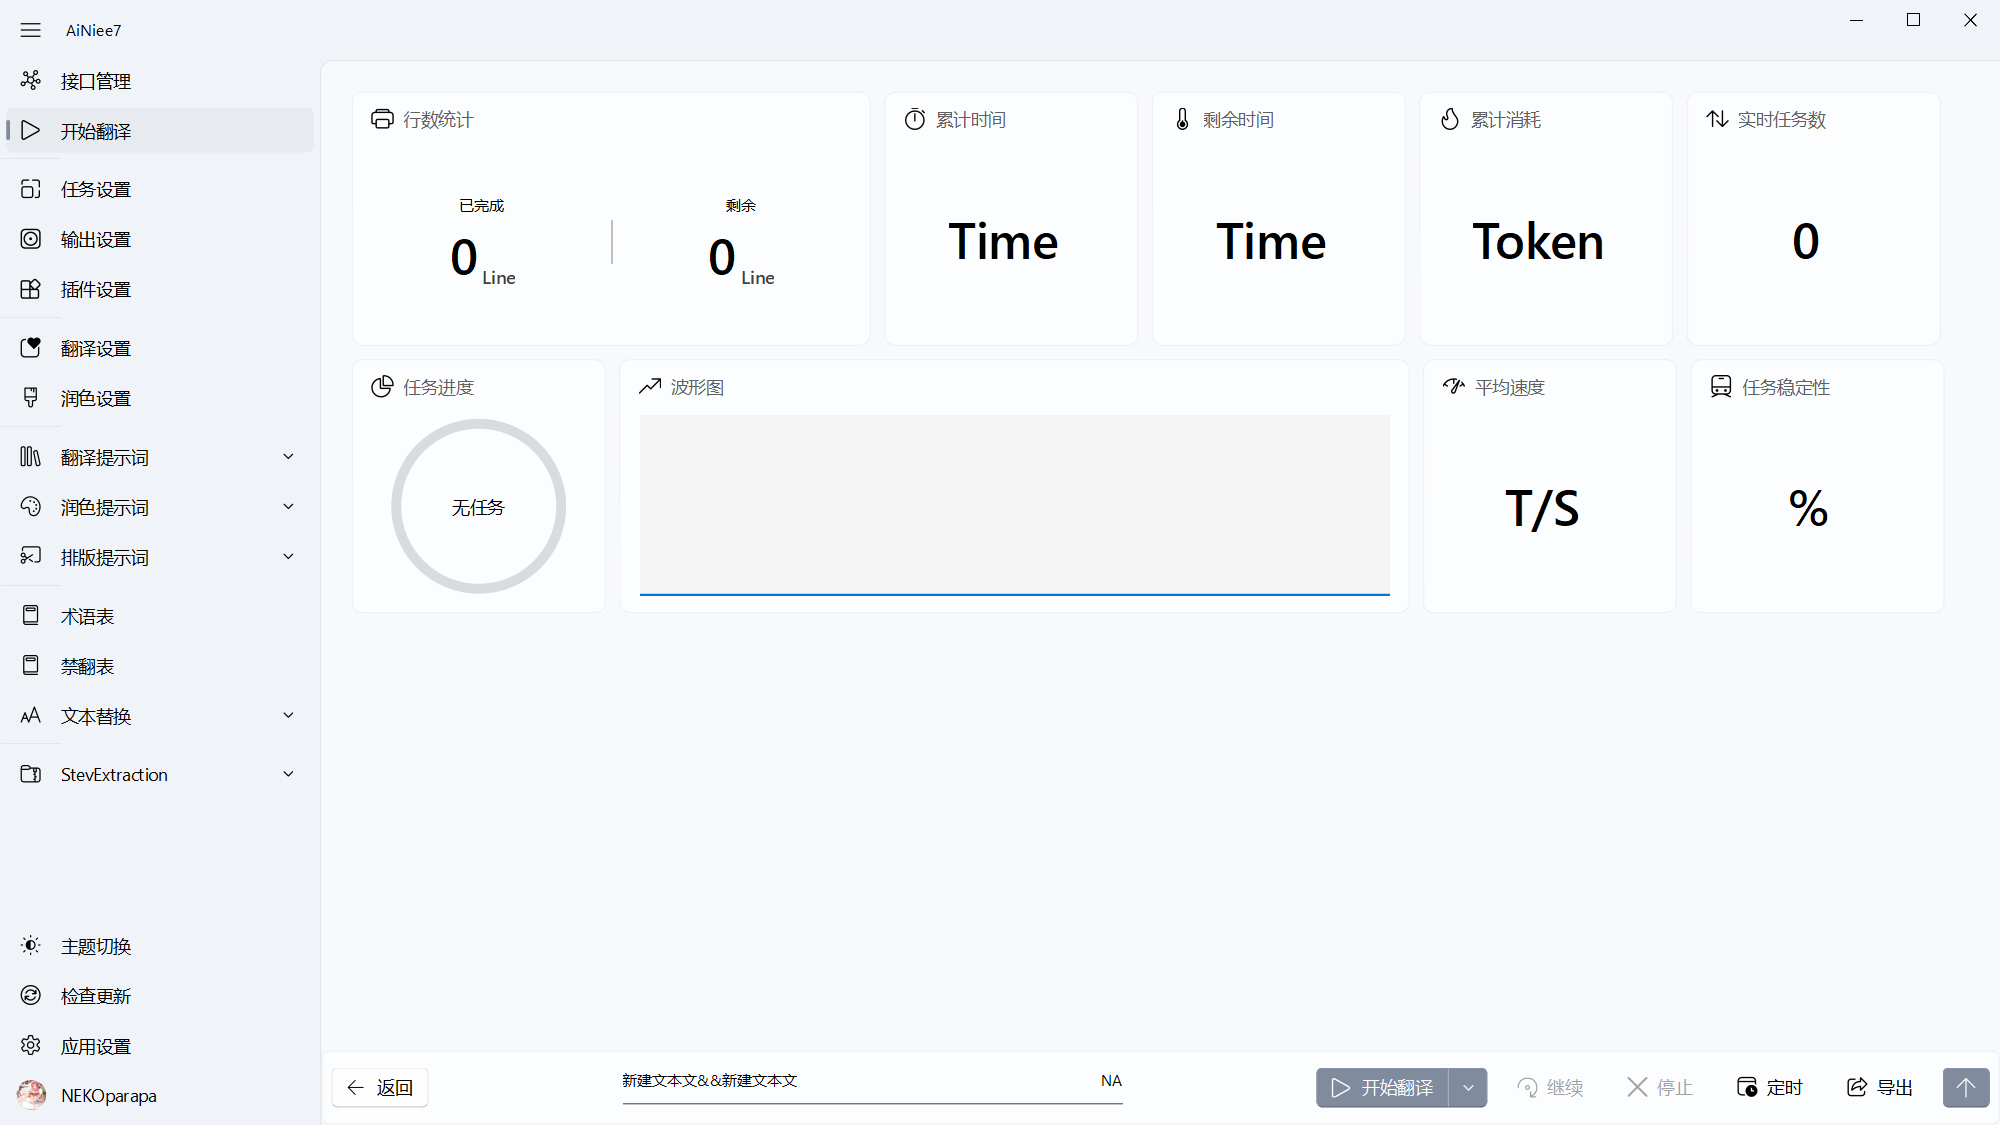
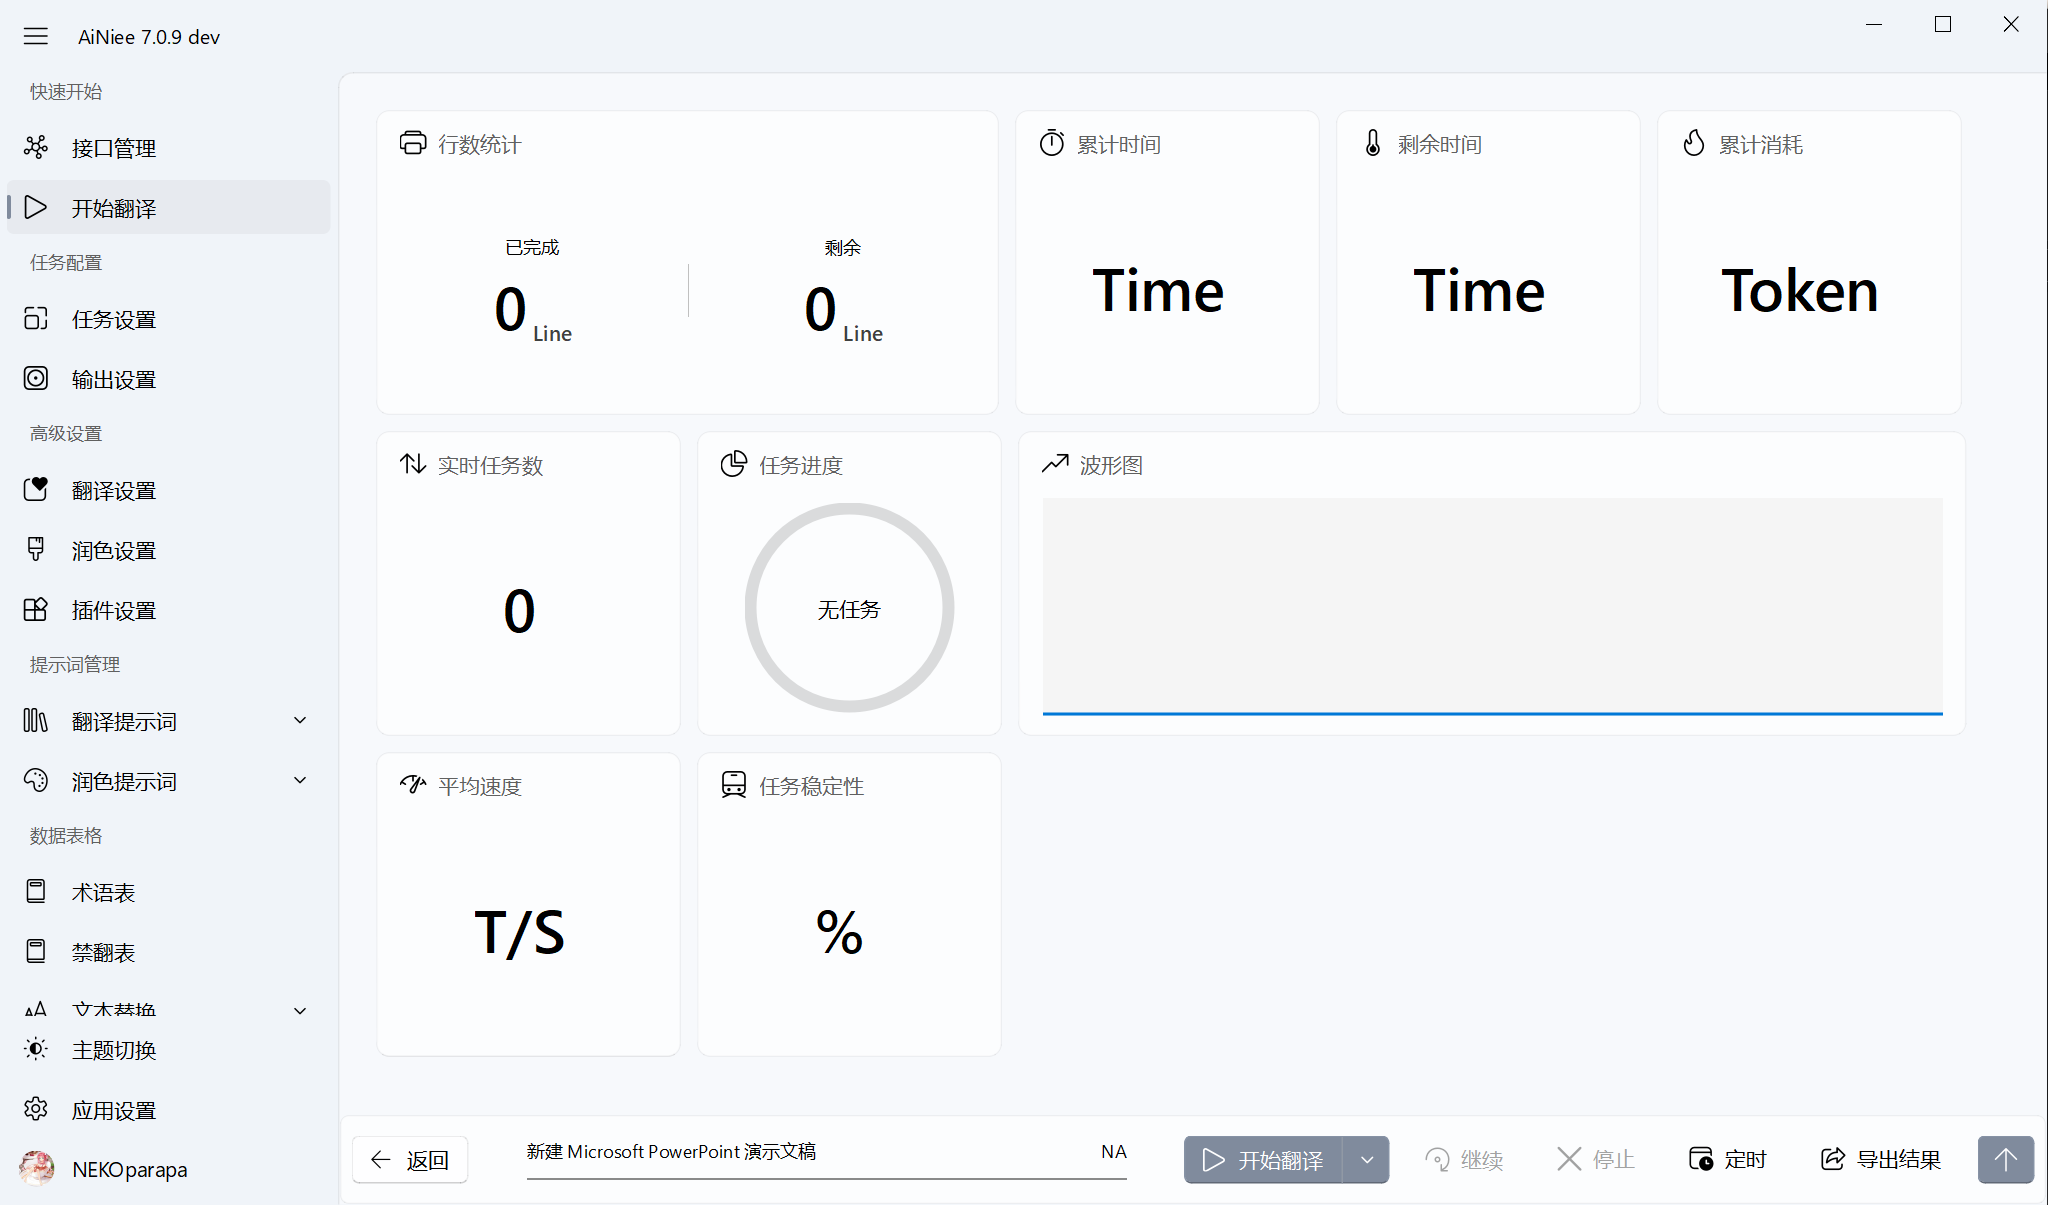
更新说明

diff --git a/README.md b/README.md
@@ -22,15 +22,15 @@
 
 * **格式全能，覆盖广泛**
     * 🎮 **游戏翻译**：深度支持 Mtool, Renpy, Translator++, ParaTranzr, VNText, SExtractor 等游戏文本导出工具。
-    * 📚 **多样支持**：轻松处理 I18Next/.trans/Po 数据、Epub/TXT 电子书、Srt/Ass/Vtt/Lrc 字幕、Word/PDF/MD 文档等。
+    * 📚 **多样支持**：轻松处理 I18Next/.trans/Po/CSV 数据、Epub/TXT 电子书、Srt/Ass/Vtt/Lrc 字幕、Word/PDF/MD/PPT 文档等。
 
 * **智能高效，省时省心**
     * 🚀 **一键操作**：一拖一点，自动识别文件与语言，无需设置。
     * ⏱ **极速翻译**：喝杯可乐的工夫，就能拿到译文。
 
 * **长文优化，质量出众**
-    * 🎯 **突破局限**：采用轻盈翻译格式、思维链翻译、AI 术语表、上下文关联等技术，确保长文本翻译的连贯性与准确性。
-    * 💎 **质量追求**：支持 基础提示、角色介绍、背景设定、翻译风格 等提示词调整，拥有 一键AI润色、一键AI排版、一键提取术语 等功能，满足对翻译质量有更高要求的用户。
+    * 🎯 **突破局限**：采用轻盈翻译格式、思维链翻译、AI术语表、上下文关联等技术，确保长文本翻译的连贯性与准确性。
+    * 💎 **质量追求**：支持 基础提示、角色介绍、背景设定、翻译风格 等提示词调整，拥有 一键AI润色、一键提取术语 等功能，满足对翻译质量有更高要求的用户。
 
 * ✨ **姊妹项目推荐**：[**ReaDreamAI**](https://github.com/NEKOparapa/ReaDreamAI) - 阅你所想，绘你所梦，从一个想法到一本完整的精彩小说。ReaDreamAI为你包办写作、插图与视频。
 
@@ -41,8 +41,7 @@
 * **第一步：配置接口**
   > <img src="https://raw.githubusercontent.com/NEKOparapa/AiNiee/main/Example%20image/三步走/第一步.png">
 
-  - 在线接口：需付费但性价比很高，无显卡要求，全语言支持，[接口设置说明 - DeepSeek](https://github.com/NEKOparapa/AiNiee/wiki/QuickStartDeepSeek)
-  - 在线接口：同上，如果Deepseek官网无法正常使用，可换该接口，[接口设置说明 - 火山引擎](https://github.com/NEKOparapa/AiNiee/wiki/QuickStartHuo)
+  - 在线接口：需付费但性价比很高，无显卡要求，全语言支持，[接口设置说明 - DeepSeek](https://github.com/NEKOparapa/AiNiee/wiki/%E5%9C%A8%E7%BA%BF%E6%8E%A5%E5%8F%A3%E2%80%90Deepseek)
 
 
 * **第二步：拖入文件夹**
@@ -222,13 +221,10 @@
 ---
 
 ## 特别声明[![](https://raw.githubusercontent.com/aregtech/areg-sdk/master/docs/img/pin.svg)](#特别声明)   
-AiNiee能够不断发展迭代至今，其关键功能框架均源于项目创立以来的持续个人研发、用户反馈建议以及大佬们PR的共同努力与创造。
-这是两年以来一个不断摸索、持续改进、共同构筑的过程，才形成了AiNiee如今相对成熟和完整的AI翻译体系。
-请大家在使用和学习之余，尊重开源精神，署名来源项目，并不忘了给项目点个star。
 
 该款AI翻译工具仅供个人合法用途,任何使用该工具进行直接或者间接非法盈利活动的行为,均不属于授权范围,也不受到任何支持和认可。
 
-* 关于开发者** @neavo **合作说明: 在AiNiee v5.2版本，2月初，已退出AiNiee的开发工作。我们对他在此期间(2024-09至2025-02)，特别是在V5版本的UI改良美化所付出的努力表示非常感谢。[详细说明](https://github.com/NEKOparapa/AiNiee/releases/tag/AiNiee6.2.3)
+* 关于开发者 @neavo 合作说明: 在AiNiee v5.2版本，已退出AiNiee的开发工作。我们对他在此期间(2024-09至2025-02)，特别是在V5版本的UI改良美化所付出的努力表示非常感谢。[详细说明](https://github.com/NEKOparapa/AiNiee/releases/tag/AiNiee6.2.3)
 
 * **`交♂交流群`**:  QQ交流群(主要活跃，答案：github)：8216248九零，备用TG群：https://t.me/+JVHbDSGo8SI2Njhl ,
 
